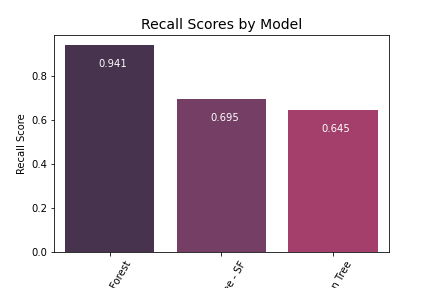
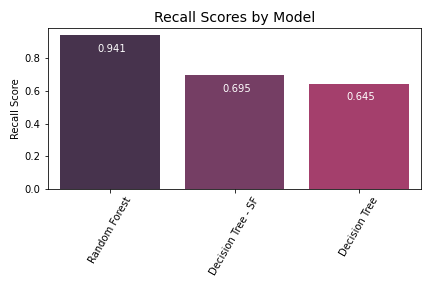
updated graph and readme

diff --git a/README.md b/README.md
@@ -74,5 +74,5 @@ Care providers can utilize the random forest model to predict future readmission
     |    ├── data_preparation.ipynb             # data clean and feature engineering
     |    ├── diabetes_readmission_model.ipynb   # model building and tuning
     |    ├── diabetes_readmission_eda.ipynb     # EDA and visulization
-    ├── final.ipynb                             # EDA and visulization
+    ├── diabetes_readmission_prediction.ipynb   # EDA and visulization
     └── README.md
